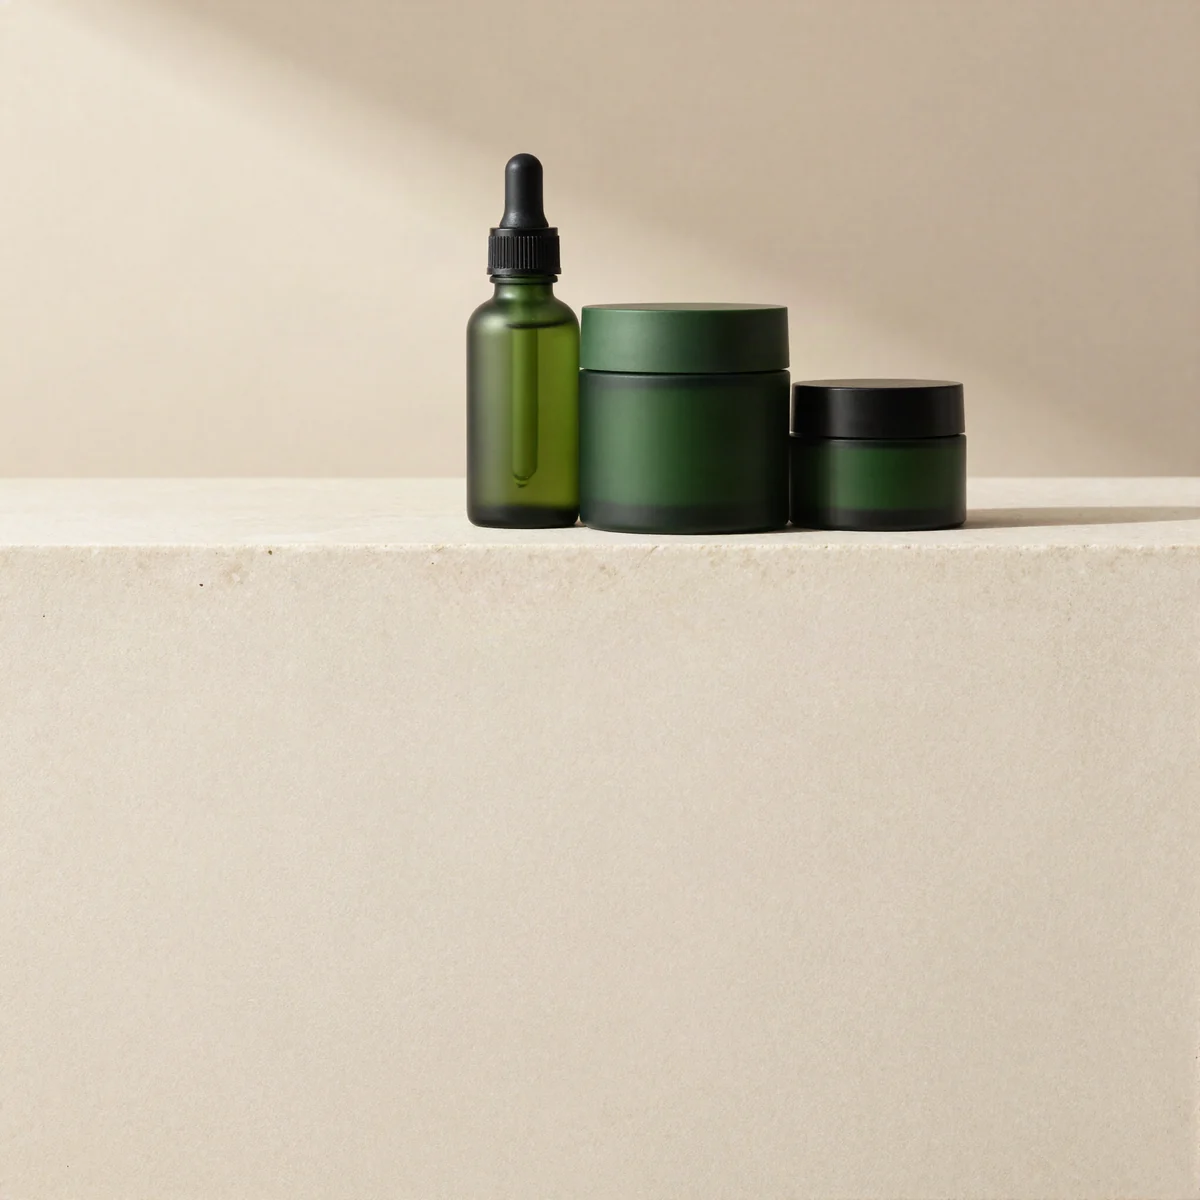
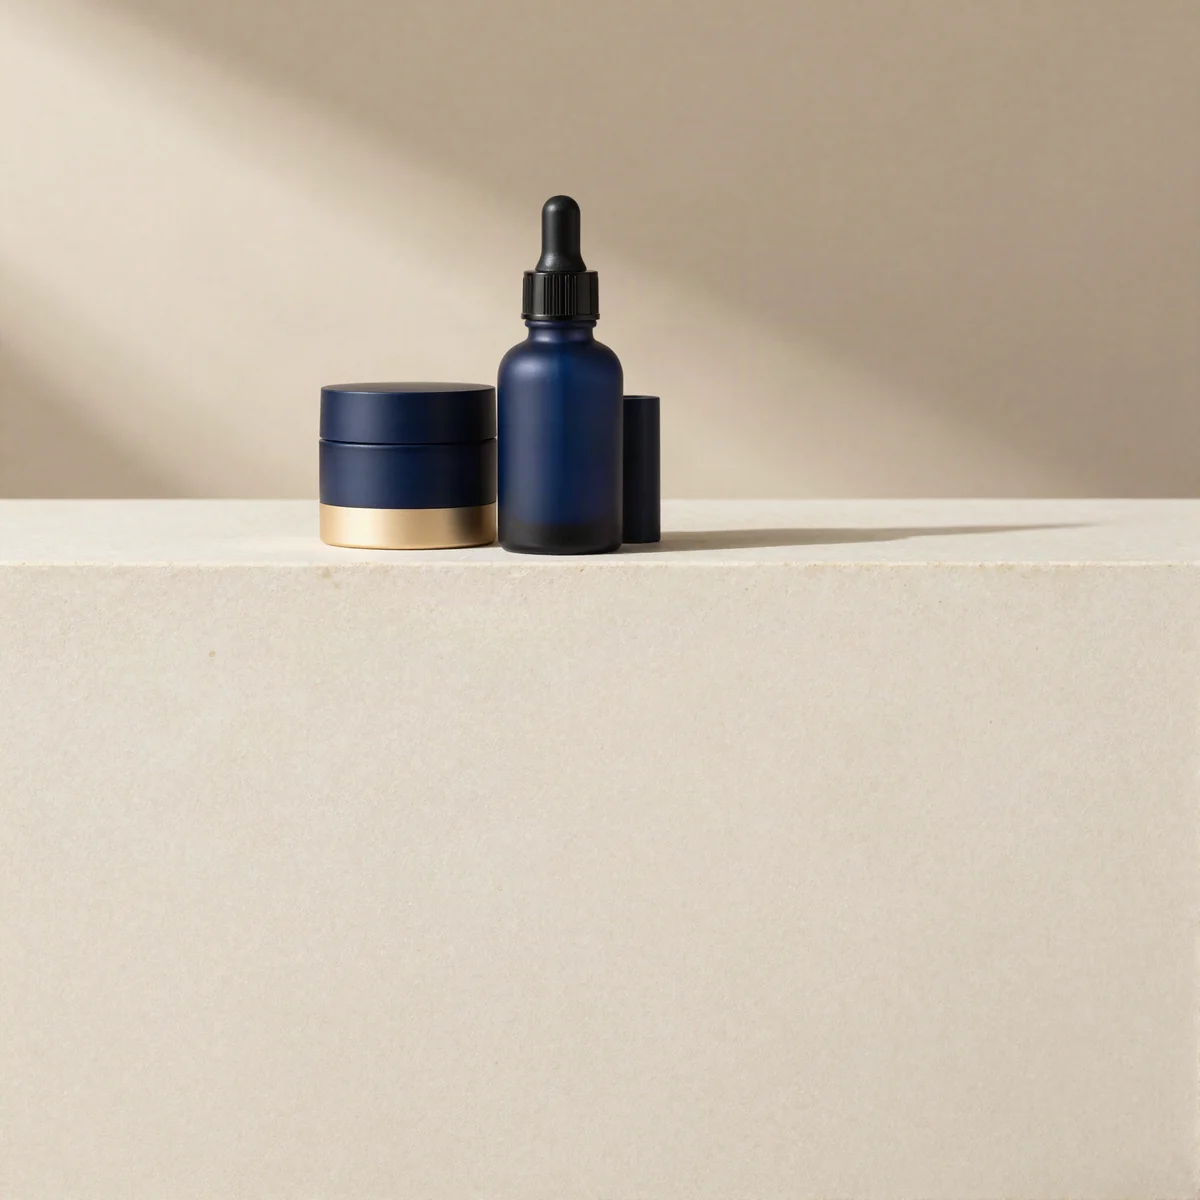
Jetons renommés en bleu marine, visuels des catégories régénérés
Les treize règles écrites pendant la parenthèse verte nommaient encore
`--forest` tout en pointant sur le bleu. Un jeton dont le nom ment sur son
contenu finit par être « corrigé » vers du vert par quelqu'un qui lit le nom
et pas la valeur : ils sont renommés, et les alias de compatibilité retirés.

Les quatre visuels de catégorie sont régénérés avec des accents bleu marine
et or champagne au lieu du vert. Les anciens sont retirés de la médiathèque,
ils n'avaient plus d'usage.

Vérifié : 10 pages × 4 largeurs, aucune erreur console, aucun débordement,
aucune image cassée, aucun échec de contraste.

diff --git a/wp-content/themes/fatichanelya/assets/css/main.css b/wp-content/themes/fatichanelya/assets/css/main.css
@@ -64,15 +64,6 @@
   --text-on-navy:#F2EADE;   /* texte sur bleu marine — 13,50:1 */
   --text-on-navy-2:#C9D0DB; /* secondaire sur bleu marine — 10,08:1 */
 
-  /* Compatibilité : des règles écrites pendant la parenthèse verte nomment
-     encore `--forest`. Elles pointent sur le bleu marine, et disparaîtront
-     au fur et à mesure que ces règles seront reprises. */
-  --forest:var(--navy);
-  --forest-deep:var(--navy-deep);
-  --forest-soft:var(--navy-soft);
-  --line-on-forest:var(--line-on-navy);
-  --text-on-forest:var(--text-on-navy);
-  --text-on-forest-2:var(--text-on-navy-2);
   --sage:#7B9482;
   --sage-ink:#4F6857;
 
@@ -200,7 +191,7 @@ h1 em,h2 em{font-style:normal;color:var(--gold-ink)}
 .button-navy{background:var(--navy);color:#fff}
 /* Texte en vert très foncé, pas en vert forêt : sur le doré, le forêt
    ne vaut que 3,87:1. Le ton plus sombre atteint 5,00:1. */
-.button-gold{background:var(--gold);color:var(--forest-deep)}
+.button-gold{background:var(--gold);color:var(--navy-deep)}
 .button-outline{border:1.5px solid var(--navy);color:var(--navy)}
 /* Sur fond sombre, le contour navy devient invisible : la variante claire
    s'applique automatiquement dans les blocs à fond navy. */
@@ -227,11 +218,11 @@ h1 em,h2 em{font-style:normal;color:var(--gold-ink)}
 .chip{display:inline-flex;align-items:center;padding:.3rem .7rem;border-radius:var(--r-pill);
   background:var(--ivory);color:var(--muted);font-size:.7rem;font-weight:700;
   letter-spacing:.09em;text-transform:uppercase}
-.chip--light{background:#FFFFFF24;color:var(--text-on-forest)}
+.chip--light{background:#FFFFFF24;color:var(--text-on-navy)}
 
 /* ---------- 5. BARRE + HEADER ---------- */
 .announcement{display:flex;justify-content:space-between;align-items:center;gap:1rem;
-  min-height:38px;padding-inline:var(--gutter);background:var(--navy);color:var(--text-on-forest);
+  min-height:38px;padding-inline:var(--gutter);background:var(--navy);color:var(--text-on-navy);
   font-size:.72rem;letter-spacing:.04em}
 .announcement a{display:inline-flex;align-items:center;gap:.5rem;min-height:38px;font-weight:700;color:var(--gold-soft)}
 .announcement p{margin:0}
@@ -265,7 +256,7 @@ h1 em,h2 em{font-style:normal;color:var(--gold-ink)}
 .bag-button{position:relative}
 .bag-count{position:absolute;inset-block-start:2px;inset-inline-end:0;
   display:grid;place-items:center;min-inline-size:19px;block-size:19px;padding-inline:4px;
-  border-radius:var(--r-pill);background:var(--gold);color:var(--forest-deep);
+  border-radius:var(--r-pill);background:var(--gold);color:var(--navy-deep);
   font-size:.65rem;font-weight:800;line-height:1}
 .header-cta{margin-inline-start:.5rem;min-height:44px;padding-inline:1.15rem}
 .burger{display:none}
@@ -452,7 +443,7 @@ h1 em,h2 em{font-style:normal;color:var(--gold-ink)}
 .training-media img{border-radius:var(--r-lg);aspect-ratio:4/5;object-fit:cover;box-shadow:var(--shadow-card)}
 .training-media figcaption{position:absolute;inset-block-end:-18px;inset-inline-start:16px;
   inline-size:min(88%,320px);padding:1rem 1.2rem;border-radius:var(--r-md);
-  background:var(--navy);color:var(--text-on-forest);font-size:.82rem;line-height:1.45;box-shadow:var(--shadow-lift)}
+  background:var(--navy);color:var(--text-on-navy);font-size:.82rem;line-height:1.45;box-shadow:var(--shadow-lift)}
 .training-list{display:grid;gap:.75rem;margin-block-start:2rem}
 .training-list li{display:grid;gap:.4rem;justify-items:start;
   padding-block-start:1.35rem;padding-inline:0;
@@ -496,13 +487,13 @@ h1 em,h2 em{font-style:normal;color:var(--gold-ink)}
 @media (hover:hover){.journal-card:hover{border-color:var(--line-strong)}}
 .journal-meta{position:absolute;inset-block-end:0;inset-inline:0;display:grid;gap:.2rem;
   padding:2.5rem 1.15rem 1.15rem;color:#fff;font-size:.85rem;font-weight:600;
-  background:linear-gradient(to top,var(--forest)E6,var(--forest)00)}
+  background:linear-gradient(to top,var(--navy)E6,var(--navy)00)}
 .journal-meta em{font-style:normal;font-size:.68rem;font-weight:700;
   letter-spacing:.1em;text-transform:uppercase;color:var(--gold-soft)}
 @media (max-width:760px){.journal-grid{grid-template-columns:1fr;max-inline-size:420px}}
 
 /* ---------- 13. ENGAGEMENT ---------- */
-.pledge{background:var(--navy);color:var(--text-on-forest)}
+.pledge{background:var(--navy);color:var(--text-on-navy)}
 .pledge h2{color:#fff}
 .pledge-grid{display:grid;grid-template-columns:repeat(3,minmax(0,1fr));
   gap:clamp(1rem,2.5vw,2rem);max-width:var(--container);margin-inline:auto}
@@ -510,7 +501,7 @@ h1 em,h2 em{font-style:normal;color:var(--gold-ink)}
   background:transparent;border:0;border-block-start:1px solid var(--line-on-navy)}
 .pledge-grid strong{font-family:var(--font-display);font-size:1.15rem;
   font-weight:500;color:#fff;letter-spacing:-.02em}
-.pledge-grid p{font-size:.88rem;color:var(--text-on-forest-2)}
+.pledge-grid p{font-size:.88rem;color:var(--text-on-navy-2)}
 @media (max-width:820px){.pledge-grid{grid-template-columns:1fr}}
 
 /* ---------- 14. FAQ ---------- */
@@ -528,13 +519,13 @@ h1 em,h2 em{font-style:normal;color:var(--gold-ink)}
 @media (hover:hover){.faq-list summary:hover{background:var(--ivory)}}
 
 /* ---------- 15. CONTACT ---------- */
-.contact{background:var(--navy);color:var(--text-on-forest);text-align:center}
+.contact{background:var(--navy);color:var(--text-on-navy);text-align:center}
 .contact h2{color:#fff;max-width:22ch;margin-inline:auto}
-.contact .section-intro{margin-inline:auto;margin-block:1.25rem 2rem;color:var(--text-on-forest-2)}
-.contact-note{margin-block-start:1.25rem;font-size:.76rem;color:var(--text-on-forest-2)}
+.contact .section-intro{margin-inline:auto;margin-block:1.25rem 2rem;color:var(--text-on-navy-2)}
+.contact-note{margin-block-start:1.25rem;font-size:.76rem;color:var(--text-on-navy-2)}
 
 /* ---------- 16. FOOTER ---------- */
-.site-footer{background:var(--navy);color:var(--text-on-forest-2);
+.site-footer{background:var(--navy);color:var(--text-on-navy-2);
   padding-inline:var(--gutter);padding-block:clamp(2.5rem,5vw,4rem) 1.5rem;
   border-block-start:1px solid var(--line-light)}
 .footer-top{display:grid;grid-template-columns:minmax(0,1.1fr) minmax(0,1.2fr) minmax(0,1.1fr);
@@ -552,18 +543,18 @@ h1 em,h2 em{font-style:normal;color:var(--gold-ink)}
   border:1px solid var(--line-on-navy);border-radius:var(--r-pill);
   background:#FFFFFF12;color:#fff;font-size:.88rem}
 .newsletter input::placeholder{color:var(--muted)}
-.newsletter-help{margin-block-start:.7rem;font-size:.72rem;color:var(--text-on-forest-2)}
+.newsletter-help{margin-block-start:.7rem;font-size:.72rem;color:var(--text-on-navy-2)}
 .disclaimer{max-width:var(--container);margin-inline:auto;margin-block-start:2.5rem;
   padding-block-start:1.5rem;border-block-start:1px solid var(--line-light);
-  font-size:.72rem;line-height:1.6;color:var(--text-on-forest-2)}
+  font-size:.72rem;line-height:1.6;color:var(--text-on-navy-2)}
 .footer-bottom{display:flex;flex-wrap:wrap;gap:.5rem 1.5rem;justify-content:space-between;
   max-width:var(--container);margin-inline:auto;margin-block-start:1.25rem;
-  font-size:.72rem;color:var(--text-on-forest-2)}
+  font-size:.72rem;color:var(--text-on-navy-2)}
 .footer-bottom p{margin:0}
 @media (max-width:900px){.footer-top{grid-template-columns:1fr}}
 
 /* ---------- 17. PANNEAU SÉLECTION ---------- */
-.drawer-backdrop{position:fixed;inset:0;z-index:90;background:var(--forest)80;
+.drawer-backdrop{position:fixed;inset:0;z-index:90;background:var(--navy)80;
   -webkit-backdrop-filter:blur(2px);backdrop-filter:blur(2px)}
 .drawer{position:fixed;inset-block:0;inset-inline-end:0;z-index:95;
   display:flex;flex-direction:column;inline-size:min(100%,400px);
@@ -585,7 +576,7 @@ h1 em,h2 em{font-style:normal;color:var(--gold-ink)}
 /* ---------- 18. FICHE PRODUIT ---------- */
 .product-dialog{inline-size:min(100%,860px);padding:0;border:0;border-radius:var(--r-lg);
   background:var(--paper);color:var(--ink);box-shadow:var(--shadow-float)}
-.product-dialog::backdrop{background:var(--forest)8C;-webkit-backdrop-filter:blur(3px);backdrop-filter:blur(3px)}
+.product-dialog::backdrop{background:var(--navy)8C;-webkit-backdrop-filter:blur(3px);backdrop-filter:blur(3px)}
 .pd-close{position:absolute;inset-block-start:12px;inset-inline-end:12px;z-index:2;
   background:var(--surface);box-shadow:var(--shadow-card)}
 .pd-body{display:grid;grid-template-columns:minmax(0,.9fr) minmax(0,1.1fr)}
@@ -907,9 +898,9 @@ h1 em,h2 em{font-style:normal;color:var(--gold-ink)}
 /* ---------- SECTIONS ALTERNÉES ----------
    Le rythme de la référence : blanc, gris très clair, blanc. */
 .section--shell{background:var(--ivory)}
-.section--forest{background:var(--forest);color:var(--text-on-forest)}
-.section--forest :is(h2,h3){color:var(--text-on-forest)}
-.section--forest .eyebrow{color:var(--gold-light)}
+.section--navy{background:var(--navy);color:var(--text-on-navy)}
+.section--navy :is(h2,h3){color:var(--text-on-navy)}
+.section--navy .eyebrow{color:var(--gold-light)}
 
 
 .drawer-voir{justify-self:center;margin-block-start:.35rem;font-size:var(--fs-label)}
@@ -1039,7 +1030,7 @@ h1 em,h2 em{font-style:normal;color:var(--gold-ink)}
 /* Sans visuel, un aplat de la palette plutôt qu'un trou : la section reste
    présentable avant que la cliente ait tout rempli. */
 .categorie-media--vide{background:
-  radial-gradient(circle at 34% 30%,var(--gold-soft),var(--forest-soft) 72%)}
+  radial-gradient(circle at 34% 30%,var(--gold-soft),var(--navy-soft) 72%)}
 .categorie-nom{font-size:1.14rem;font-weight:var(--fw-title);color:var(--ink);
   transition:color var(--t-micro)}
 .categorie-compte{font-size:var(--fs-label);color:var(--muted)}
@@ -1078,8 +1069,8 @@ h1 em,h2 em{font-style:normal;color:var(--gold-ink)}
   transition:border-color var(--t-micro),background var(--t-micro),color var(--t-micro)}
 .carousel-bouton[disabled]{opacity:.35;cursor:default}
 @media (hover:hover){
-  .carousel-bouton:not([disabled]):hover{background:var(--forest);
-    border-color:var(--forest);color:var(--text-on-forest)}
+  .carousel-bouton:not([disabled]):hover{background:var(--navy);
+    border-color:var(--navy);color:var(--text-on-navy)}
 }
 .carousel-bouton .i{inline-size:18px;block-size:18px}
 .carousel-prec .i{transform:rotate(180deg)}
